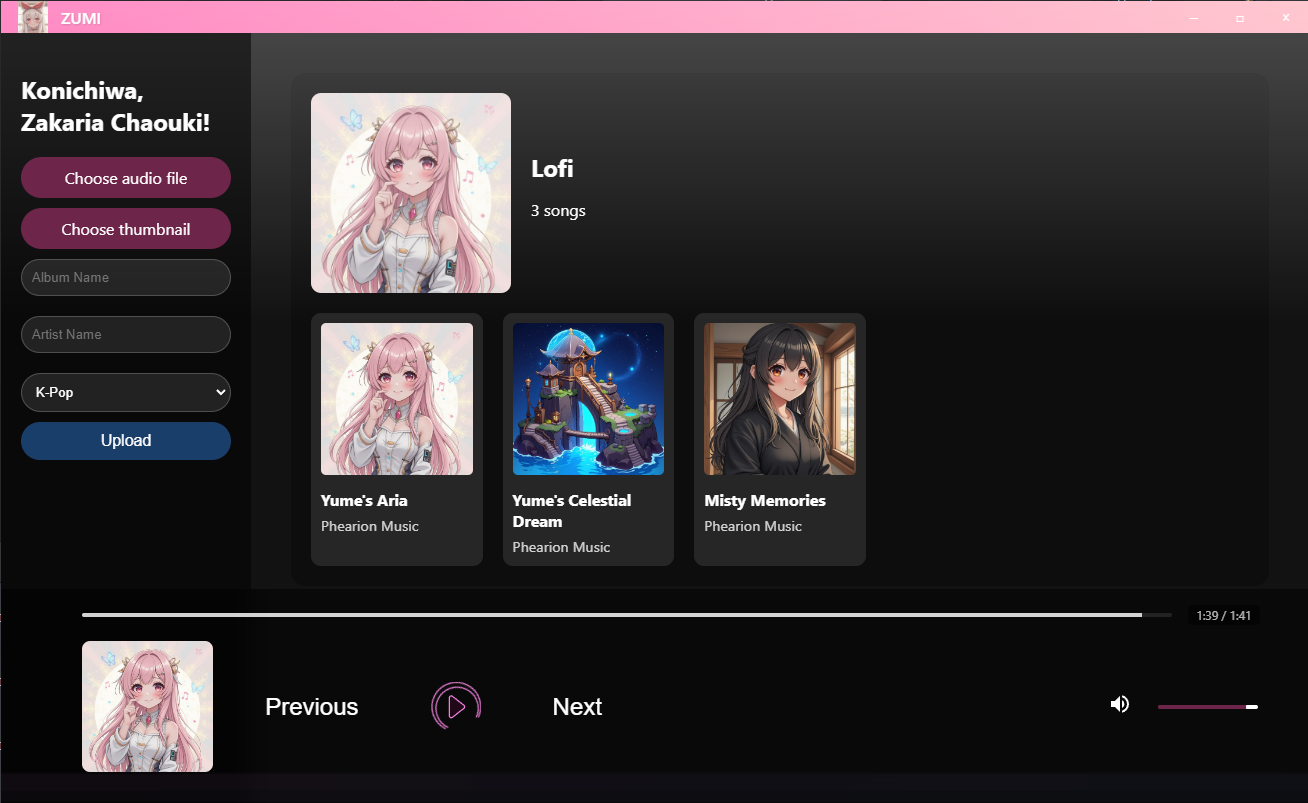
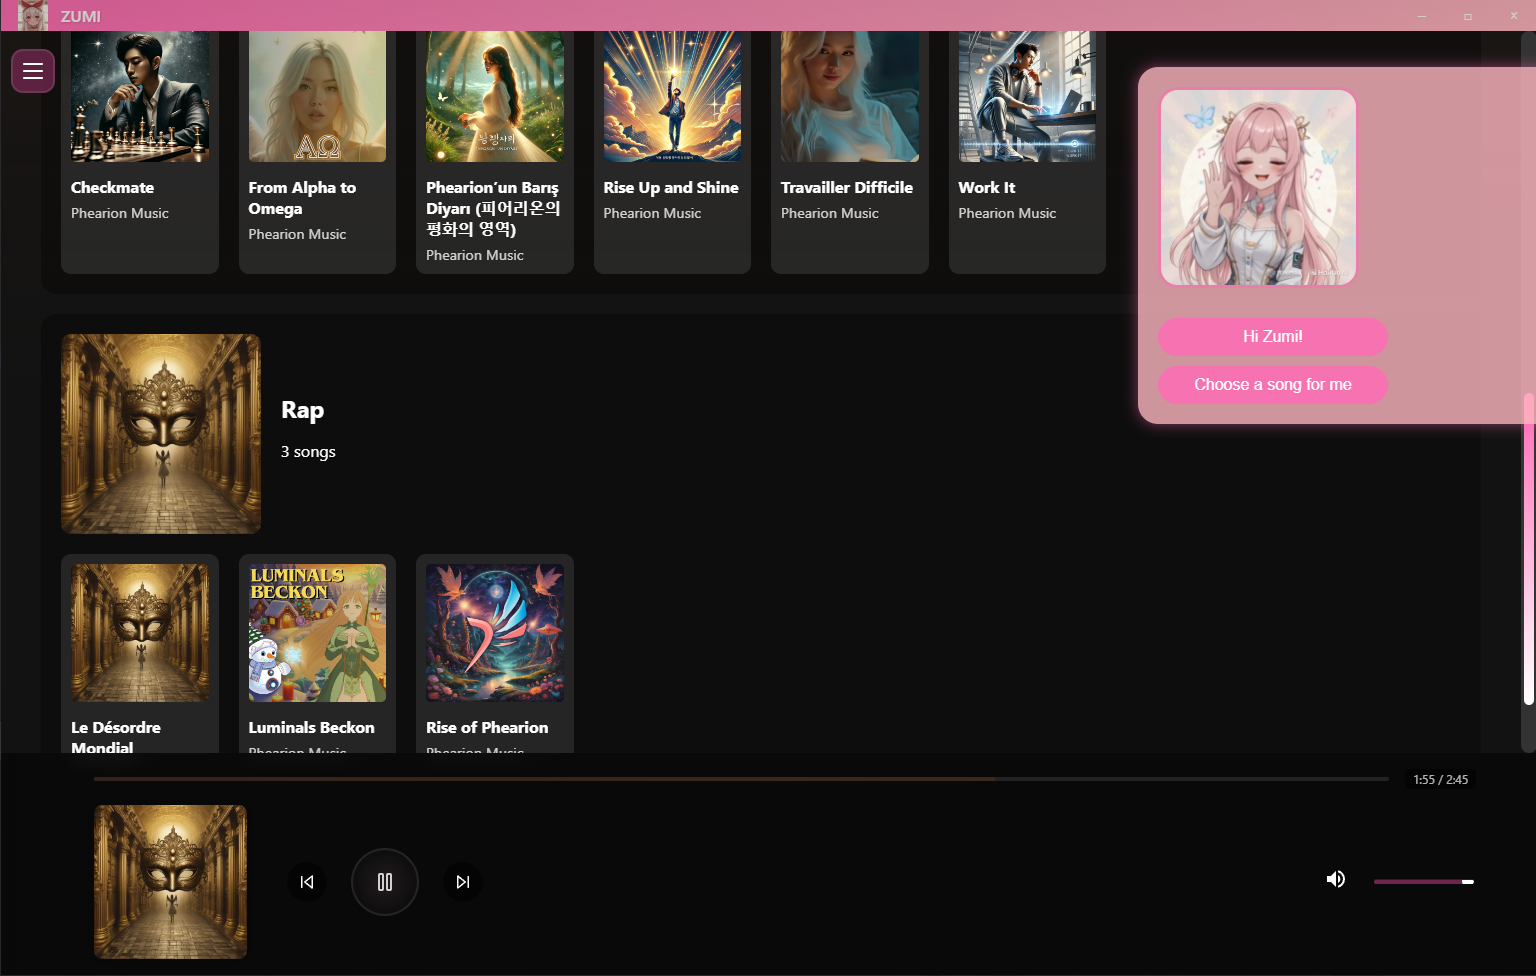
chore: readme update

diff --git a/README.md b/README.md
@@ -19,6 +19,17 @@ _Hi! I'm Zumi, the kawaii music maid at your service. I will load your music and
 ### Features:
 
 - Play music. (obviously) 🎃
+- Simplify your upload to server
+
+![img_2.png](img_2.png)
+
+- Dynamic scrollbar light mode based on the album cover. 🌈
+
+![img_3.png](img_3.png)
+
+- Custom toolbar to control the music without opening the app. 🌸
+
+![img_4.png](img_4.png)
 
 ### Technologies:
 
@@ -31,12 +42,13 @@ AND THAT'S IT! 🌈✨
 
 ### What's next (dream goal if I HAD MONEY aha):
 
+- Tailor the music to the user's taste thanks to Zumi assistant. 🌸
 - I would definitely add a lyrics detector to check if the lyrics are E.T.H.I.C.A.L or not before adding them to the database.
 - If we add real human-made music, I would add multiple crawlers to check public information about the artist and the song to make sure it's E.T.H.I.C.A.L. (This include video analysis, lyrics analysis, and much more) (THIS REQUIRES A LOT OF MONEY, so it's just a dream goal :D)
 - I would add a feature to detect the mood of the user and play music that fits the mood. (This requires a lot of data and a lot of money, so it's just a dream goal :D)
 
 Note: let's see how far I will go with this project :) I want at least to make a deployed version for my personal use when I am working on my projects.
 
-Wanna see my other projects? Check my [website][https://phanthive.com]
+Wanna see my other projects? Check my ![website](https://phanthive.com/)
 
 ![img_1.png](img_1.png)
